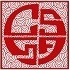
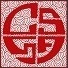
changed style to red theme

diff --git a/app/assets/stylesheets/application.css b/app/assets/stylesheets/application.css
@@ -13,6 +13,30 @@
  *= require_self
  *= require_tree .
  */
+
+
+
+.btn-primary{
+    background-color: #BC0813 !important;
+    border-color: #BC0813 !important;
+}
+
+a:not(.btn):not(.clickable-card) {
+    color: #BC0813;
+}
+
+
+.list-group-item.active {
+    background-color: #dddddd !important;
+    border-color: #dddddd !important;
+}
+
+.navbar{
+    background-color: #BC0813;
+}
+/*a.dropdown-item{*/
+    /*color: #BC0813;*/
+/*}*/
 .center {
     text-align: center;
     margin: auto;

diff --git a/app/assets/stylesheets/home.scss b/app/assets/stylesheets/home.scss
@@ -7,8 +7,9 @@ div,ul,li{margin: 0;padding: 0}
   padding: 0 30px;
   margin-bottom: 15px;
   overflow: hidden;
-  background-color: #f8f9fa;
-  border: 1px solid rgba(0,0,0,.125);
+  background-color: white;
+  border: 1px solid;
+  border-color: #BC0813;
   border-radius: 5px;
 }
 .notice ul li {

diff --git a/app/assets/stylesheets/profile.scss b/app/assets/stylesheets/profile.scss
@@ -62,6 +62,7 @@
   padding: 20px;
 }
 
+
 /* On smaller screens, where height is less than 450px, change the style of the sidenav (less padding and a smaller font size) */
 @media screen and (max-height: 450px) {
   .sidebar {padding-top: 15px;}

diff --git a/spec/controllers/accounts_controller_spec.rb b/spec/controllers/accounts_controller_spec.rb
@@ -44,7 +44,7 @@ RSpec.describe AccountsController, :type => :controller do
         post :create,  params: { account: { email: 'bob@tamu.edu', name: 'bob', password: 'secret', password_confirmation: 'secret', username: 'bo' } }
       end
   
-      assert_redirected_to login_index_path
+      assert_redirected_to home_index_path
     end
   end
   

diff --git a/spec/spec_helper.rb b/spec/spec_helper.rb
@@ -1,5 +1,6 @@
 require 'support/spec_test_helper.rb'
 require 'pry'
+require 'byebug'
 # This file was generated by the `rails generate rspec:install` command. Conventionally, all
 # specs live under a `spec` directory, which RSpec adds to the `$LOAD_PATH`.
 # The generated `.rspec` file contains `--require spec_helper` which will cause

diff --git a/spec/controllers/rides_controller_spec.rb b/spec/controllers/rides_controller_spec.rb
@@ -14,6 +14,7 @@ RSpec.describe RidesController, :type => :controller do
     it "assigns @rides as all rides" do
       post :create, :params => { ride: @ride_params }
       login(@account)
+      byebug
       get :index
       expect(assigns(:rides).count).to eq(Ride.count)
     end
